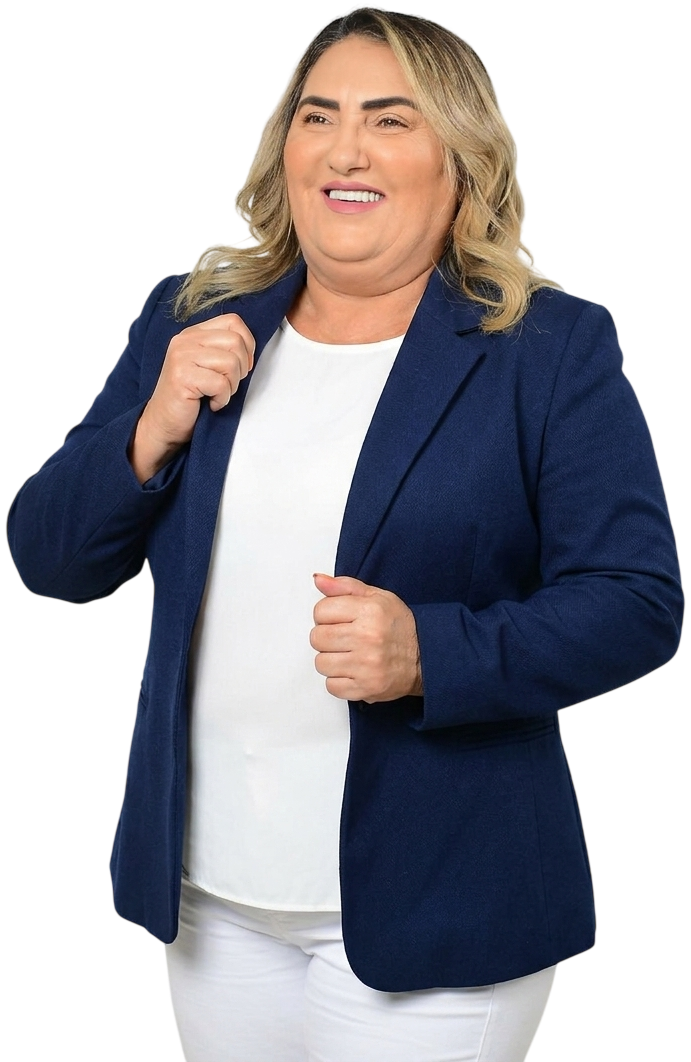
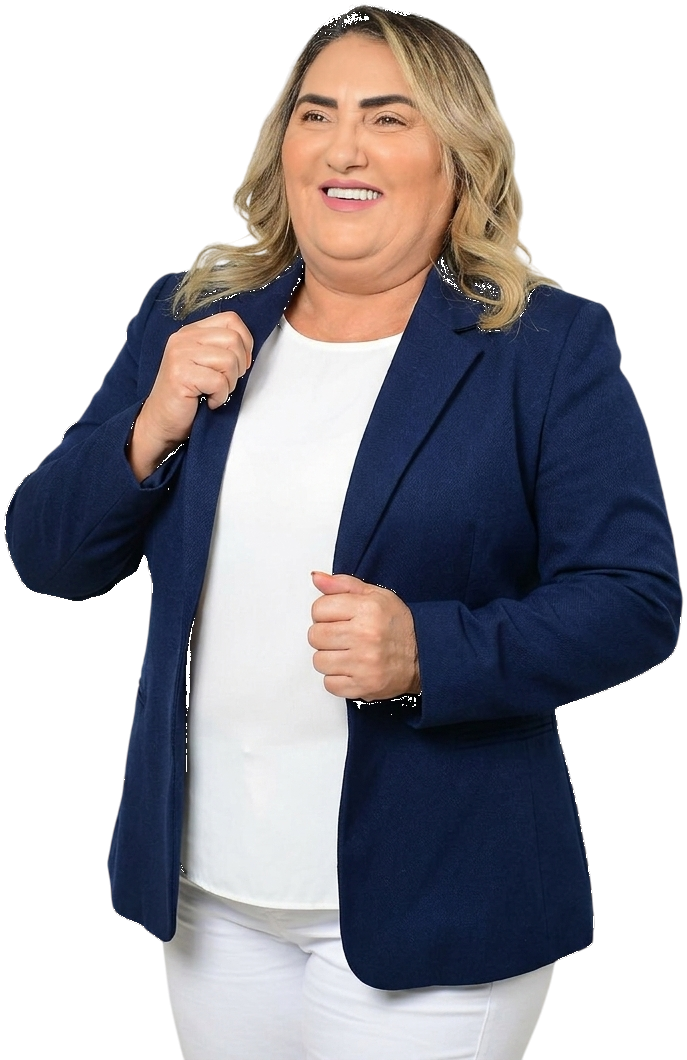
...

diff --git a/src/app/globals.css b/src/app/globals.css
@@ -330,12 +330,14 @@ button, a { -webkit-tap-highlight-color: transparent; }
   text-decoration: none;
 }
 
-/* Hero */
+/* Hero — um frame = mock (header + conteúdo + faixa) */
 .campaign-hero {
   position: relative;
   isolation: isolate;
   display: flex;
-  min-height: clamp(720px, 100svh, 880px);
+  height: 100dvh;
+  min-height: 680px;
+  max-height: 980px;
   flex-direction: column;
   overflow: hidden;
   color: white;
@@ -353,29 +355,29 @@ button, a { -webkit-tap-highlight-color: transparent; }
 
 .campaign-crowd {
   z-index: 0;
-  width: 58%;
+  width: 55%;
   right: auto;
-  mask-image: linear-gradient(90deg, #000 0%, #000 48%, transparent 100%);
+  mask-image: linear-gradient(90deg, #000 0%, #000 42%, transparent 92%);
 }
 
 .campaign-crowd-img {
   object-fit: cover;
-  object-position: center center;
-  filter: saturate(.2) brightness(.38) contrast(1.1) hue-rotate(12deg);
-  opacity: .78;
+  object-position: 40% center;
+  filter: grayscale(1) brightness(.45) contrast(1.15);
+  opacity: .55;
 }
 
 .campaign-place {
   z-index: 0;
-  left: 28%;
-  width: 72%;
-  mask-image: linear-gradient(90deg, transparent 0%, #000 24%, #000 100%);
+  left: 26%;
+  width: 74%;
+  mask-image: linear-gradient(90deg, transparent 0%, #000 22%, #000 100%);
 }
 
 .campaign-place-img {
   object-fit: cover;
-  object-position: 68% 42%;
-  filter: saturate(.7) brightness(.72) contrast(1.05);
+  object-position: 70% 40%;
+  filter: saturate(.75) brightness(.78) contrast(1.06);
 }
 
 .campaign-place-fallback {
@@ -389,8 +391,8 @@ button, a { -webkit-tap-highlight-color: transparent; }
   z-index: 1;
   pointer-events: none;
   background:
-    linear-gradient(90deg, #001a33 0%, rgba(0, 26, 51, .92) 24%, rgba(0, 26, 51, .42) 48%, rgba(0, 26, 51, .12) 70%, rgba(0, 26, 51, .22) 100%),
-    linear-gradient(180deg, rgba(0, 26, 51, .55) 0%, transparent 18%, transparent 70%, rgba(0, 26, 51, .35) 100%);
+    linear-gradient(90deg, #001a33 0%, rgba(0, 26, 51, .88) 22%, rgba(0, 26, 51, .38) 46%, rgba(0, 26, 51, .08) 68%, rgba(0, 26, 51, .18) 100%),
+    linear-gradient(180deg, rgba(0, 26, 51, .5) 0%, transparent 16%, transparent 72%, rgba(0, 26, 51, .28) 100%);
 }
 
 .campaign-stage {
@@ -400,8 +402,8 @@ button, a { -webkit-tap-highlight-color: transparent; }
   flex: 1 1 auto;
   width: 100%;
   align-items: center;
-  padding-top: 5.6rem;
-  padding-bottom: 5.8rem;
+  padding-top: 5.2rem;
+  padding-bottom: 1.2rem;
 }
 
 .campaign-copy {
@@ -502,18 +504,18 @@ button, a { -webkit-tap-highlight-color: transparent; }
   transform: translateX(2px);
 }
 
-/* Portrait — absolute, overlaps strip lightly, soft integration */
+/* Portrait — right side, overlaps strip like mock */
 .campaign-portrait-slot {
   position: absolute;
-  right: clamp(0%, 2vw, 3%);
-  bottom: 0;
+  right: 0;
+  bottom: 3.4rem;
   z-index: 18;
   display: none;
-  width: min(46%, 560px);
-  height: calc(100% - 4.6rem);
+  width: min(46%, 540px);
+  height: calc(100% - 5.1rem - 2.2rem);
   align-items: flex-end;
-  justify-content: center;
-  padding-bottom: 1.1rem;
+  justify-content: flex-end;
+  padding-right: clamp(.25rem, 1.5vw, 1.2rem);
   pointer-events: none;
 }
 
@@ -525,13 +527,13 @@ button, a { -webkit-tap-highlight-color: transparent; }
 
 .campaign-portrait-glow {
   position: absolute;
-  right: 10%;
-  bottom: 16%;
+  right: 12%;
+  bottom: 12%;
   z-index: 0;
-  width: 68%;
-  height: 52%;
+  width: 62%;
+  height: 48%;
   border-radius: 50%;
-  background: radial-gradient(circle, rgba(30, 80, 150, .38) 0%, transparent 72%);
+  background: radial-gradient(circle, rgba(30, 80, 150, .32) 0%, transparent 72%);
   filter: blur(18px);
 }
 
@@ -541,24 +543,17 @@ button, a { -webkit-tap-highlight-color: transparent; }
   width: 100%;
   height: 100%;
   overflow: visible !important;
-  -webkit-mask-image:
-    linear-gradient(90deg, transparent 0%, #000 8%, #000 100%),
-    linear-gradient(180deg, #000 0%, #000 88%, transparent 100%);
-  mask-image:
-    linear-gradient(90deg, transparent 0%, #000 8%, #000 100%),
-    linear-gradient(180deg, #000 0%, #000 88%, transparent 100%);
-  -webkit-mask-composite: source-in;
-  mask-composite: intersect;
-  filter: drop-shadow(0 18px 36px rgba(0, 12, 40, .3));
+  background: transparent !important;
+  filter: drop-shadow(0 16px 32px rgba(0, 12, 40, .28));
 }
 
 .campaign-portrait-img {
   object-fit: contain !important;
-  object-position: center bottom;
-  filter: saturate(.92) contrast(1.03) brightness(1);
+  object-position: right bottom;
+  filter: saturate(.94) contrast(1.04) brightness(1.01);
 }
 
-/* Strip — always readable */
+/* Strip — flush bottom of first viewport */
 .campaign-strip {
   position: relative;
   z-index: 25;
@@ -695,10 +690,13 @@ button, a { -webkit-tap-highlight-color: transparent; }
 
   .campaign-portrait-slot {
     display: flex;
-    width: min(62vw, 300px);
-    height: min(58vh, 430px);
-    opacity: .38;
-    padding-bottom: 5rem;
+    right: 0;
+    bottom: auto;
+    top: 5.1rem;
+    width: min(58vw, 280px);
+    height: min(52vh, 400px);
+    opacity: .34;
+    padding-right: 0;
   }
 
   .campaign-strip {
@@ -758,8 +756,7 @@ button, a { -webkit-tap-highlight-color: transparent; }
   }
 
   .campaign-portrait-slot {
-    opacity: .3;
-    padding-bottom: 14rem;
+    opacity: .28;
   }
 
   .campaign-strip-item {

diff --git a/src/app/(public)/page.tsx b/src/app/(public)/page.tsx
@@ -132,7 +132,7 @@ export default async function HomePage() {
           </div>
           <div className="campaign-strip-item campaign-strip-navy">
             <Heart size={22} strokeWidth={2.1} className="campaign-strip-heart" aria-hidden />
-            <strong>Trabalho · Fé · Família</strong>
+            <strong>Trabalho • Fé • Família</strong>
           </div>
         </div>
       </section>